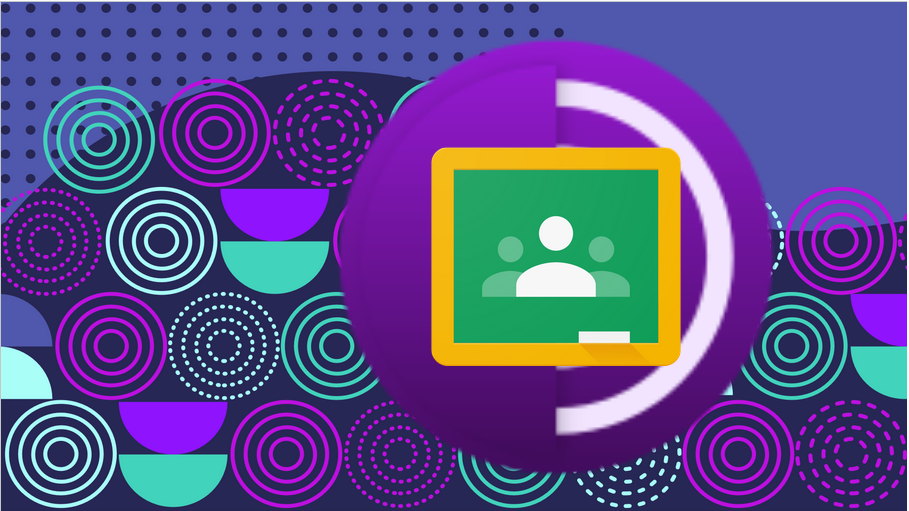
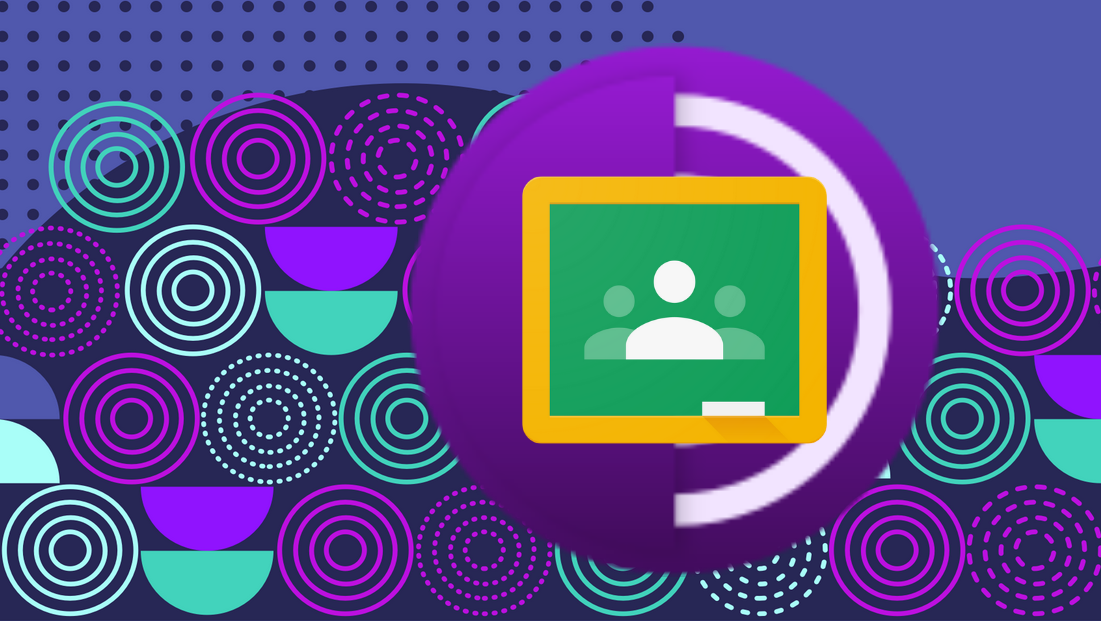
img

diff --git a/index.html b/index.html
@@ -18,8 +18,6 @@
         background: url("https://jacobl3371.github.io/sep10-freedom-project/img/title.png");
         height: 600px;
         width: 100%;
-        object-fit: cover;
-        justify-content: center;
     }
 
     nav {
@@ -231,9 +229,9 @@
             <div class="sm:grid grid-rows-12F146866607 grid-cols-2">
                 <p class="text-black md:col-span-2 md:row-span-1 col-start-1 row-start-3 lg:col-span-1 lg:row-span-1 p-4 xl:mb-20">Currently, if you try to access the nycstudents.net Google classroom login through Tor browser, you will see this error message, saying that the service is unavailable since the DOE servers detected the use of tor exit nodes masking the IP address of the user requesting the website from the server, and they take the liberty to make sure that no one anonymizing their traffic through Tor in Tor browser could ever use their services. Most people would give up and use a regular browser after this, but I wanted to see how much agency a K-12 students relying on digital services facilitated by Google and the DOE for access to their education could actually acquire.</p>
                 <div class="md:col-span-2 md:row-span-1 col-start-2 row-start-3 lg:col-span-1 lg:row-span-1 p-4 mb-20"><img src="img/nycdoe-classroom-tor.png"></div>
-                <div class="md:col-span-2 md:row-span-1 md:col-start-1 row-start-2 lg:col-span-1 lg:row-span-1 p-4 xl:mb-20"><img src="img/gclassroom-tor.png"></div>
+                <div class="md:col-span-2 md:row-span-1 md:col-start-1 row-start-2 lg:col-span-1 lg:row-span-1 p-4 md:mb-20"><img src="img/gclassroom-tor.png"></div>
                 <p class="text-black md:col-span-2 md:row-span-1 col-start-2 row-start-2 lg:col-span-1 lg:row-span-1 p-4 mb-20">Even the regular classroom.google.com url blocks the Tor network when you attempt to enter it from Tor browser. 9 out of 10 times when you type in the url into Tor browser and click enter, you will be prompted with this 403 error URL declinement message.</p>
-                <p class="text-black md:col-span-2 md:row-span-1 col-start-1 row-start-3 lg:col-span-1 lg:row-span-1 p-4 xl:mb-20">The other tenth of the time, you may get to the login but will be prompted with a message saying that Google's services are not available in your country. This is the error I am usually prompted with when trying to access Google Classroom through Tor via Google drive or Docs to get around the classroom.google.com url block. On a seldom occassion it may work and I am able to access regular Google Classroom services (hstat.org login) through Tor in Tor browser, but most of the time you will be prompted with this error. I didn't understand it at first since Tor exit relays origniate from countries all over Europe and North America, so I couldn't see how Google could block their services for those IP addresses. Only after I clicked the 'learn more' button I realized that Google was just trying to facilitate complete hostility to all IP addresses detected as Tor exit relays, most being blocked at this point, and justifying the denial of their Google workspace services to Tor users under the guise that their service can not be distributed to the totalitarian regime which the Tor user who is entering the website from the United States behind a Netherlands or France-run exit relay supposedly lives under.</p>
+                <p class="text-black md:col-span-2 md:row-span-1 col-start-1 row-start-3 lg:col-span-1 lg:row-span-1 p-4 md:mb-20">The other tenth of the time, you may get to the login but will be prompted with a message saying that Google's services are not available in your country. This is the error I am usually prompted with when trying to access Google Classroom through Tor via Google drive or Docs to get around the classroom.google.com url block. On a seldom occassion it may work and I am able to access regular Google Classroom services (hstat.org login) through Tor in Tor browser, but most of the time you will be prompted with this error. I didn't understand it at first since Tor exit relays origniate from countries all over Europe and North America, so I couldn't see how Google could block their services for those IP addresses. Only after I clicked the 'learn more' button I realized that Google was just trying to facilitate complete hostility to all IP addresses detected as Tor exit relays, most being blocked at this point, and justifying the denial of their Google workspace services to Tor users under the guise that their service can not be distributed to the totalitarian regime which the Tor user who is entering the website from the United States behind a Netherlands or France-run exit relay supposedly lives under.</p>
                 <div class="md:col-span-2 md:row-span-1 col-start-2 row-start-3 lg:col-span-1 lg:row-span-1 p-4 mb-20"><img src="img/gclassroomlogin-tor.png"></div>
                 <div class="md:col-span-2 md:row-span-1 col-start-1 row-start-4 lg:col-span-1 lg:row-span-1 p-4 xl:mb-20"><img src="img/torusers_3rdratetreatment.png"></div>
                 <p class="text-black md:col-span-2 md:row-span-1 col-start-2 row-start-4 lg:col-span-1 lg:row-span-1 p-4 mb-20">Google lists some of the dictatorships that they restrict their business services to like Russia, Cuba, Russian-occupied Ukrainian territories like Luhansk and Donetsk, Iran, North Korea and Syria. Most people in these regions don't even have internet access, let alone are accessing Google workspace services in these countries with no educational system or economy. Google saw that they could kill two birds with one stone by blocking their workspace services in these underdeveloped regimes which are all currently at war, either more directly or not, with the West, and cripple Tor user's ability to compartmentalize their identity on google classroom in Tor Browser from the rest of the data on their operating system and devices, basically saying that people who want to securely and pseudononymously access Google's workspace services through the use of the only free open and source software that does this; Tor and Tor browser, should be given as little capability to do so as someone living without internet in a war-torn regime.</p>
